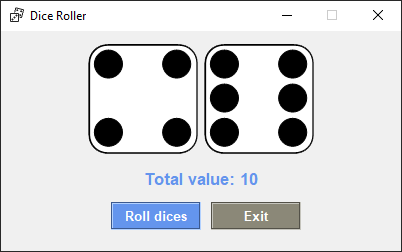
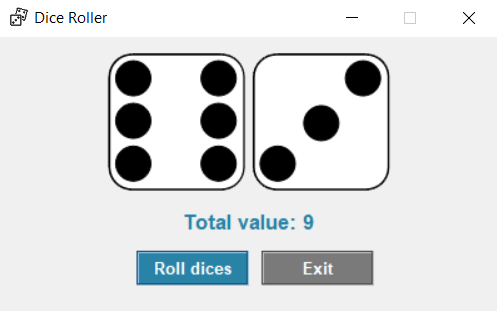
Fixed file paths to be platform independent.

diff --git a/dice_roller.py b/dice_roller.py
@@ -1,4 +1,5 @@
 import random
+import os
 import tkinter as tk
 from PIL import Image, ImageTk
 
@@ -8,6 +9,7 @@ class DiceRoller(tk.Tk):
     Application main class.
     """
     dice_images = ["1.png", "2.png", "3.png", "4.png", "5.png", "6.png"]
+    images_path = "images"
 
     def __init__(self):
         """
@@ -34,17 +36,17 @@ class DiceRoller(tk.Tk):
         self.middle_frame = tk.Frame(self)
         self.middle_frame.pack()
 
-        self.total_value_label = tk.Label(self.middle_frame, fg="cornflowerblue", font=self.lg_font_style)
+        self.total_value_label = tk.Label(self.middle_frame, fg="#2883A6", font=self.lg_font_style)
         self.total_value_label.pack()
 
         self.bottom_frame = tk.Frame(self)
         self.bottom_frame.pack(pady=10)
 
-        self.roll_button = tk.Button(self.bottom_frame, text="Roll dices", fg="white", bg="cornflowerblue", relief="groove", command=self.roll_dices,
+        self.roll_button = tk.Button(self.bottom_frame, text="Roll dices", fg="#FFFFFF", bg="#2883A6", relief="groove", command=self.roll_dices,
                                      font=self.sm_font_style, width=10, cursor="hand2")
         self.roll_button.pack(side="left", padx=10)
 
-        self.exit_button = tk.Button(self.bottom_frame, text="Exit", fg="white", bg="cornsilk4", relief="groove", command=self.quit, font=self.sm_font_style,
+        self.exit_button = tk.Button(self.bottom_frame, text="Exit", fg="#FFFFFF", bg="#7A7A7A", relief="groove", command=self.quit, font=self.sm_font_style,
                                      width=10, cursor="hand2")
         self.exit_button.pack(side="left")
 
@@ -55,7 +57,7 @@ class DiceRoller(tk.Tk):
         total_value = 0
         for dice_image_widget in [self.dice_image1, self.dice_image2]:
             dice_value = random.randint(1, 6)
-            path_to_image = f"images/{dice_value}.png"
+            path_to_image = os.path.join(self.images_path, f"{dice_value}.png")
             dice_image = ImageTk.PhotoImage(Image.open(path_to_image))
             dice_image_widget.configure(image=dice_image)
             dice_image_widget.image = dice_image
